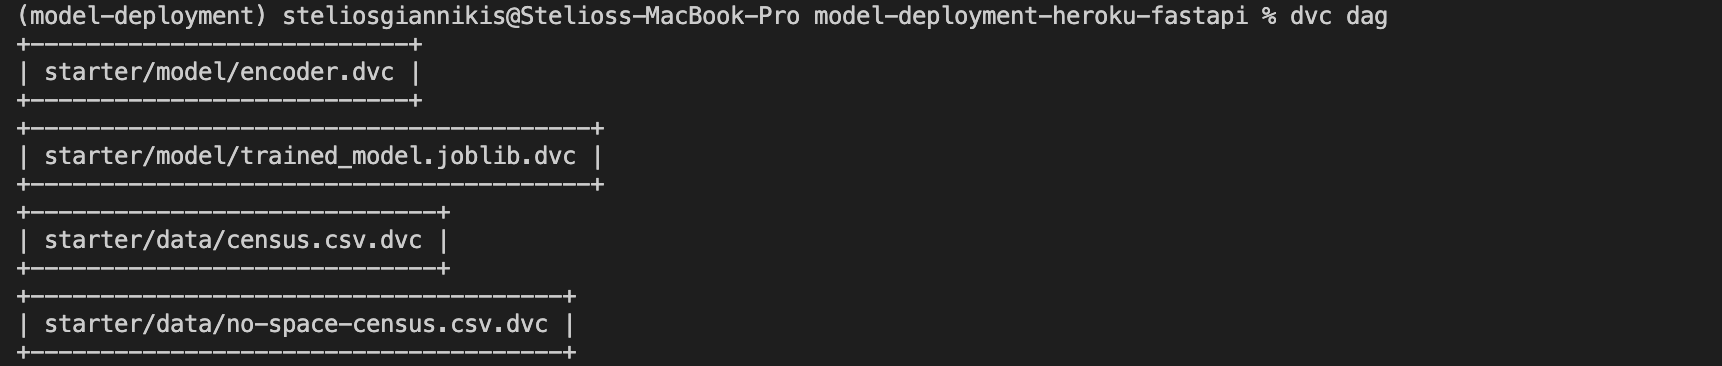
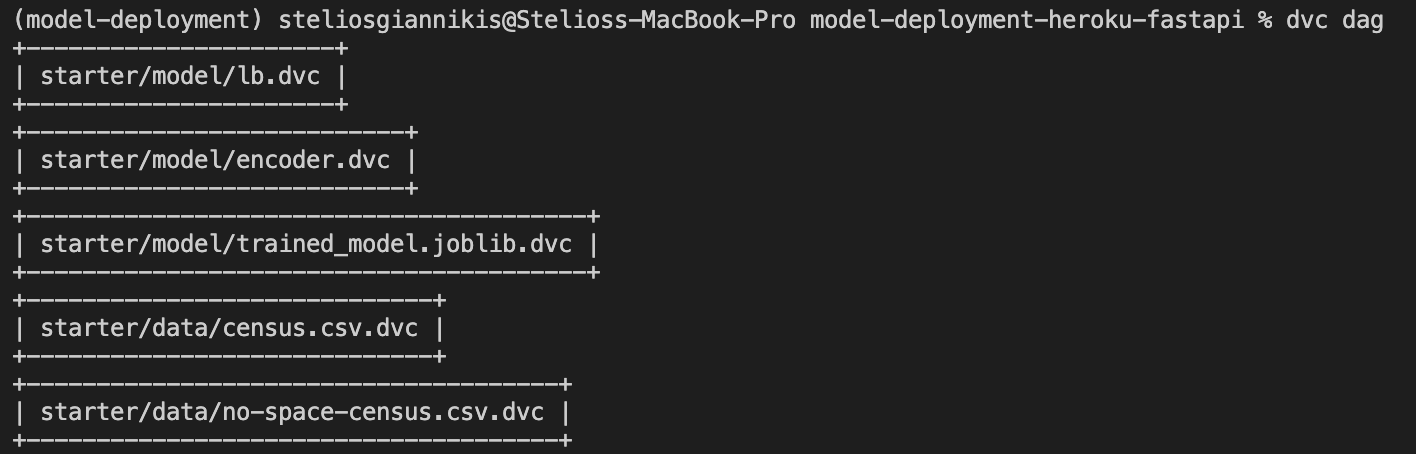
Add API and API tests

diff --git a/tests/test_local.py b/tests/test_local.py
@@ -1,0 +1,110 @@
+from fastapi.testclient import TestClient
+
+from starter.main import app
+
+client = TestClient(app)
+
+def test_api_locally_get_root():
+    r = client.get('/')
+    assert r.status_code == 200, "Status code is not 200"
+    assert r.json() == "Welcome, this API returns predictions on Salary", "Wrong json output"
+
+def test_api_locally_post_less_50():
+    r = client.post(
+        "/predict",
+        json={
+            "age": [
+                39
+            ],
+            "workclass": [
+                "State-gov"
+            ],
+            "fnlgt": [
+                77516
+            ],
+            "education": [
+                "Bachelors"
+            ],
+            "education-num": [
+                13
+            ],
+            "marital-status": [
+                "Never-married"
+            ],
+            "occupation": [
+                "Adm-clerical"
+            ],
+            "relationship": [
+                "Not-in-family"
+            ],
+            "race": [
+                "White"
+            ],
+            "sex": [
+                "Male"
+            ],
+            "capital-gain": [
+                2174
+            ],
+            "capital-loss": [
+                0
+            ],
+            "hours-per-week": [
+                40
+            ],
+            "native-country": [
+                "United-States"
+            ]
+            })
+    assert r.status_code == 200, "Status code is not 200"
+    assert r.json() == {"Predicted salary": "<=50K"}, "Wrong json output"
+
+def test_api_locally_post_higher_50():
+    r = client.post(
+        "/predict",
+        json={
+            "age": [
+                39
+            ],
+            "workclass": [
+                "State-gov"
+            ],
+            "fnlgt": [
+                77516
+            ],
+            "education": [
+                "Bachelors"
+            ],
+            "education-num": [
+                13
+            ],
+            "marital-status": [
+                "Never-married"
+            ],
+            "occupation": [
+                "Adm-clerical"
+            ],
+            "relationship": [
+                "Not-in-family"
+            ],
+            "race": [
+                "White"
+            ],
+            "sex": [
+                "Male"
+            ],
+            "capital-gain": [
+                10000
+            ],
+            "capital-loss": [
+                0
+            ],
+            "hours-per-week": [
+                40
+            ],
+            "native-country": [
+                "United-States"
+            ]
+            })
+    assert r.status_code == 200, "Status code is not 200"
+    assert r.json() == {"Predicted salary": ">50K"}, "Wrong json output"

diff --git a/starter/main.py b/starter/main.py
@@ -1,1 +1,78 @@
 # Put the code for your API here.
+import joblib
+import pandas as pd
+import numpy as np
+from fastapi import FastAPI, Body
+from fastapi.encoders import jsonable_encoder
+from pydantic import BaseModel, Field
+from typing import Callable, List
+import sys
+sys.path.insert(0, 'starter/starter')
+from starter.starter.ml import model, data
+
+app = FastAPI()
+
+CATEGORICAL_FEATURES = [
+    "workclass",
+    "education",
+    "marital-status",
+    "occupation",
+    "relationship",
+    "race",
+    "sex",
+    "native-country",
+]
+
+# Load model and encoders
+TRAINED_MODEL = joblib.load("starter/model/trained_model.joblib")
+ENCODER = joblib.load("starter/model/encoder")
+LB = joblib.load("starter/model/lb")
+
+class InferenceRequest(BaseModel):
+    age: List[int]
+    workclass: List[str]
+    fnlgt: List[int]
+    education: List[str]
+    education_num: List[int] = Field(alias='education-num')
+    marital_status: List[str] = Field(alias='marital-status')
+    occupation: List[str]
+    relationship: List[str]
+    race: List[str]
+    sex: List[str]
+    capital_gain: List[int] = Field(alias='capital-gain')
+    capital_loss: List[int] = Field(alias='capital-loss')
+    hours_per_week: List[int] = Field(alias='hours-per-week')
+    native_country: List[str] = Field(alias='native-country')
+
+
+@app.get('/')
+async def welcome():
+    return "Welcome, this API returns predictions on Salary"
+
+
+@app.post("/predict")
+async def predict(request: InferenceRequest = Body(
+    ...,
+    example={
+        "age": [39],
+        "workclass": ["State-gov"],
+        "fnlgt": [77516],
+        "education": ["Bachelors"],
+        "education-num": [13],
+        "marital-status": ["Never-married"],
+        "occupation": ["Adm-clerical"],
+        "relationship": ["Not-in-family"],
+        "race": ["White"],
+        "sex": ["Male"],
+        "capital-gain": [2174],
+        "capital-loss": [0],
+        "hours-per-week": [40],
+        "native-country": ["United-States"]
+    }
+)):
+    data_alias = jsonable_encoder(request, by_alias=True)
+    to_predict = pd.DataFrame.from_dict(data_alias)
+    processed_data, _, _, _ = data.process_data(to_predict, categorical_features=CATEGORICAL_FEATURES, label=None, training=False, encoder=ENCODER, lb=LB)
+    preds = model.inference(model=TRAINED_MODEL, X=np.array(processed_data))
+
+    return {"Predicted salary": preds[0]}

diff --git a/starter/starter/train_model.py b/starter/starter/train_model.py
@@ -30,9 +30,11 @@ X_train, y_train, encoder, lb = process_data(
     train, categorical_features=cat_features, label="salary", training=True
 )
 
-# Save encoder
+# Save encoder and lb
 with open("starter/model/encoder", "wb") as file:
     joblib.dump(encoder, file)
+with open("starter/model/lb", "wb") as file:
+    joblib.dump(lb, file)
 
 # Process the test data with the process_data function.
 X_test, y_test, _, _ = process_data(test, categorical_features=cat_features, label="salary", training=False, encoder=encoder, lb=lb)

diff --git a/starter/starter/ml/model.py b/starter/starter/ml/model.py
@@ -1,4 +1,5 @@
 import json
+import numpy as np
 import sys
 sys.path.insert(0, 'starter/starter')
 from ml.data import process_data
@@ -65,6 +66,7 @@ def inference(model, X):
         Predictions from the model.
     """
     preds = model.predict(X)
+    preds = np.where(preds == 0, '<=50K', '>50K')
     return preds
 
 
